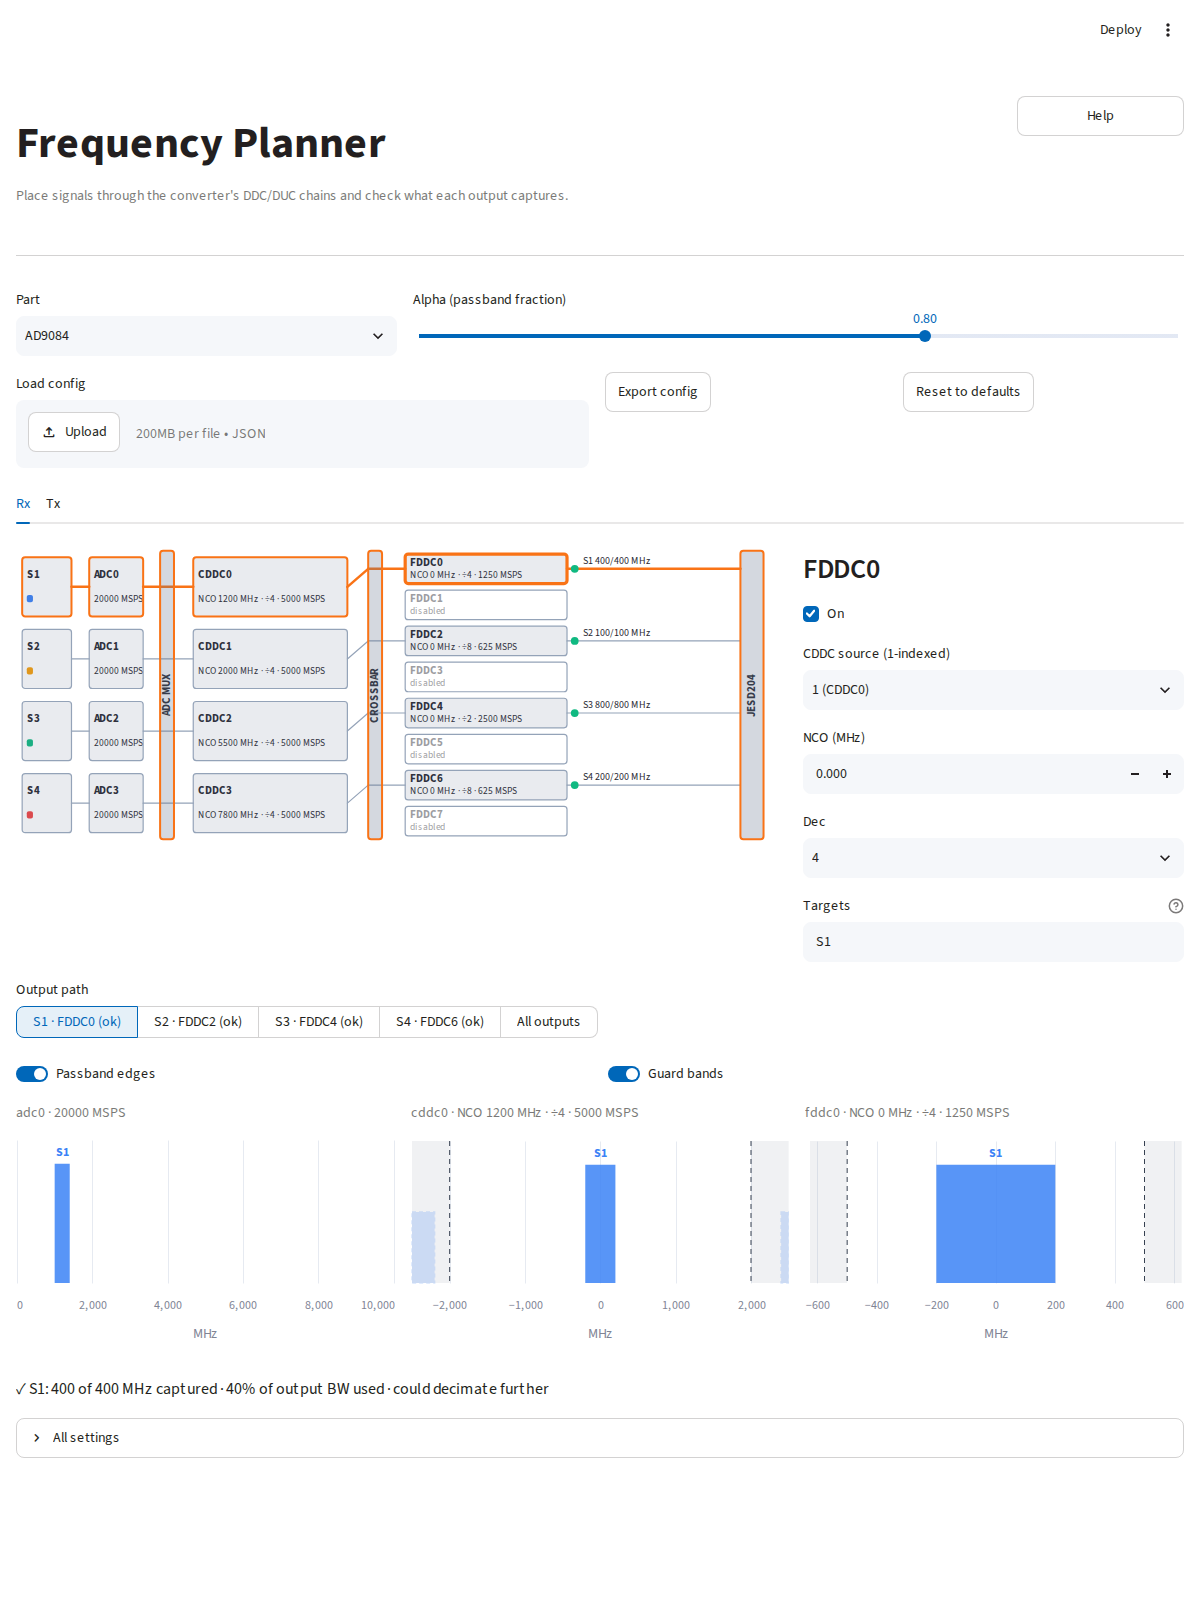
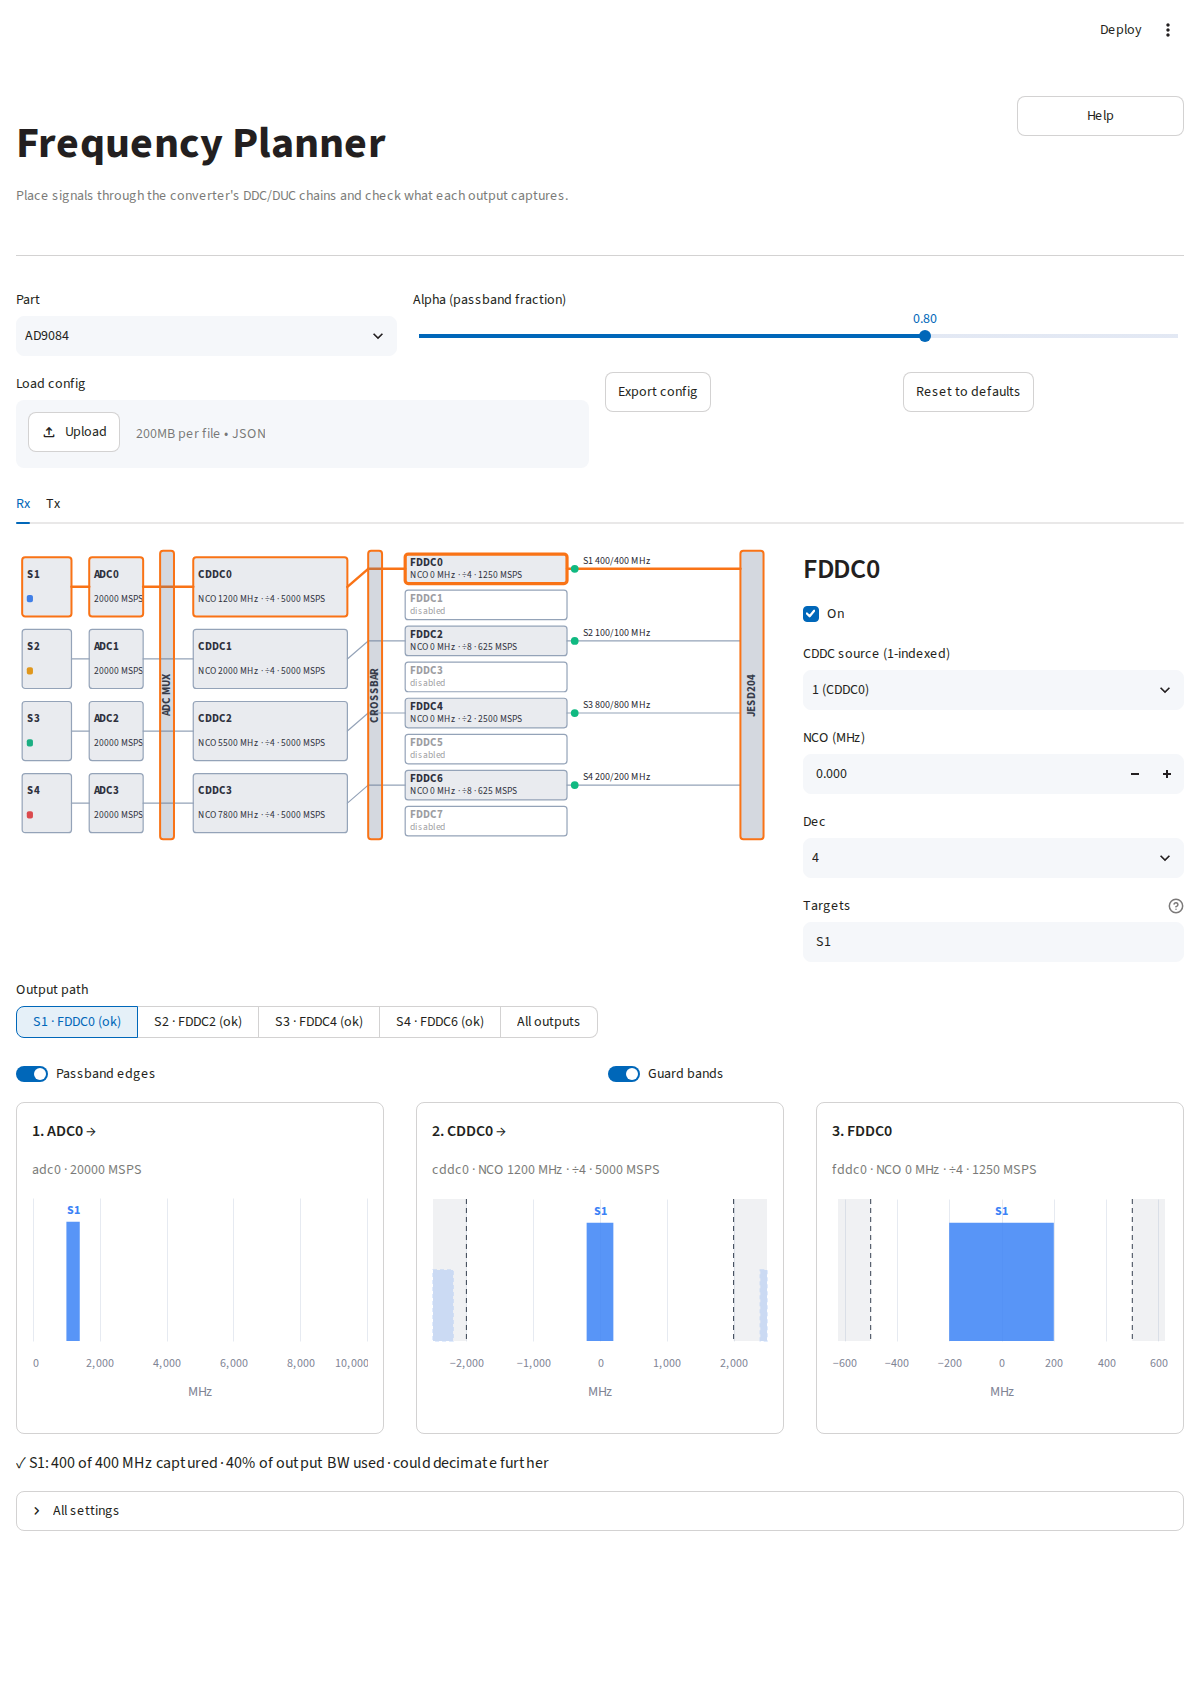
feat(explorer): separate planner path spectra into numbered stage cards
Put each stage's spectrum in its own bordered card with a numbered header
and an arrow to the next stage, so it is clear where one plot ends and the
next begins. Recapture the doc screenshots.

diff --git a/adijif/tools/explorer/src/pages/frequencyplanner.py b/adijif/tools/explorer/src/pages/frequencyplanner.py
@@ -948,9 +948,12 @@ def _path_charts(
     colors = signal_colors([s.name for s in plan.signals])
     show_pb = bool(_SS.get(f"fp_{tab}_passband", True))
     show_alias = bool(_SS.get(f"fp_{tab}_alias", True))
-    cols = st.columns(3)
-    for col, sid in zip(cols, path.stages, strict=False):
+    cols = st.columns(3, border=True, gap="medium")
+    n = len(path.stages)
+    for i, (col, sid) in enumerate(zip(cols, path.stages, strict=False)):
         with col:
+            arrow = "  →" if i < n - 1 else ""
+            st.markdown(f"**{i + 1}. {sid.upper()}**{arrow}")
             stage = result.stages.get(sid)
             if stage is None:
                 st.caption(f"{sid} · disabled, no spectrum")
@@ -961,8 +964,9 @@ def _path_charts(
                 stage_chart(stage, colors, show_pb, show_alias),
                 width="stretch",
             )
-    if len(path.stages) == 2:
+    if n == 2:
         with cols[2]:
+            st.markdown("**3. —**")
             st.caption("CDDC output, no FDDC")
     st.markdown(verdict_line(_path_verdict(tab, path, plan, result)))
 
